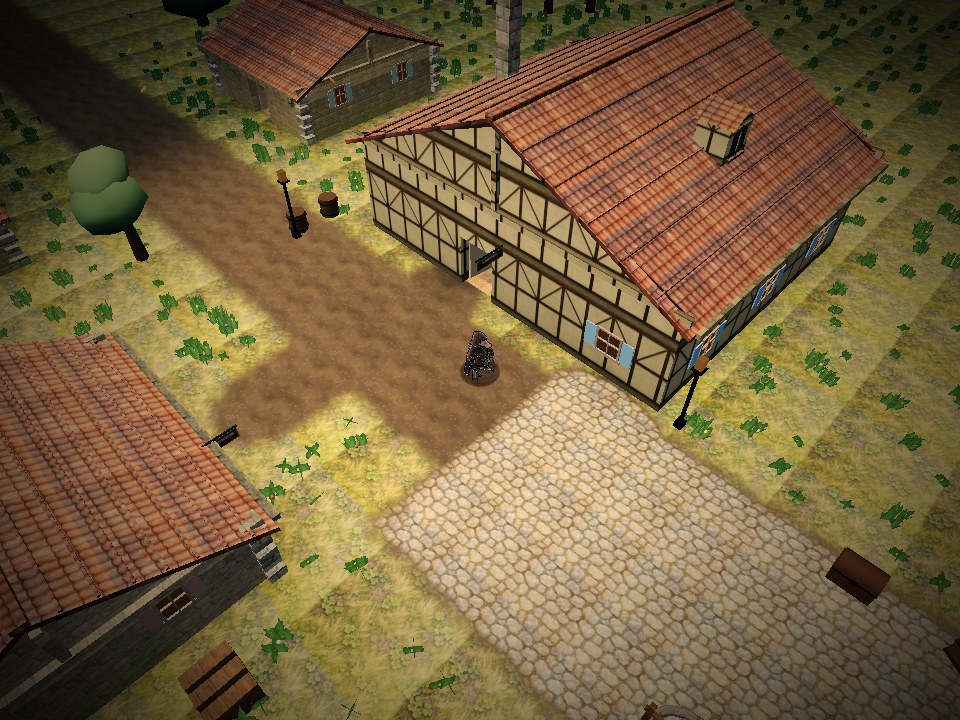
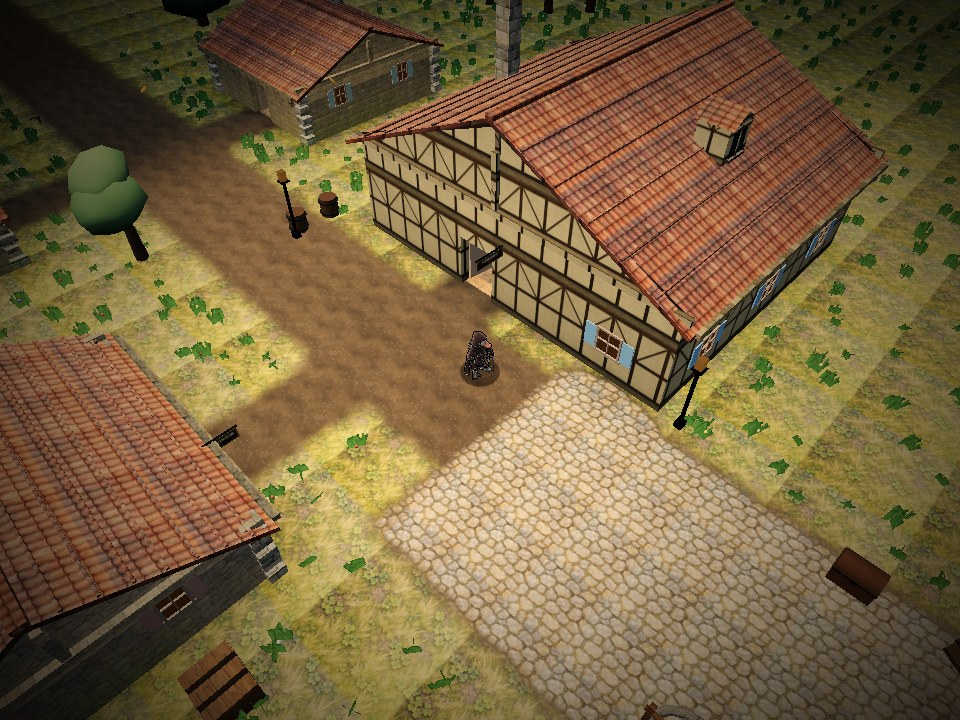
Koble alle husdører helt fram til hovedveien

diff --git a/src/areatemplates.js b/src/areatemplates.js
@@ -322,8 +322,10 @@ export function villageLayout(id) {
       k.grove(4, 6, 4, 3.5, 21); k.grove(40, 6, 4.5, 3.5, 22); k.grove(4, 41, 4, 3.5, 23);
       k.road([[-1, 22.5], [47, 22.5]], 2.4);
       k.rect(18, 21, 27, 24, FLOOR, GR.COBBLE);
-      k.road([[15, 21], [15, 22]], 1.4); k.road([[27, 21], [27, 22]], 1.4);
-      k.road([[15, 24], [15, 25]], 1.4); k.road([[29, 24], [29, 25]], 1.4);
+      // Adkomst fra selve dørterskelen til hovedveien, også for de ytre husene.
+      for (const b of buildings) for (const [x, y] of b.doors) {
+        k.road([[x + 0.5, y + 0.5], [x + 0.5, 22.5]], 1.2);
+      }
       k.field(33, 32, 42, 40, 'korn'); k.field(18, 34, 27, 41, 'kal');
       if (p.coast) { k.deep(0, 43, 45, 45); k.water(30, 41, 45, 42); }
     },

diff --git a/docs/veikanter.md b/docs/veikanter.md
@@ -5,6 +5,7 @@ Tom påpekte at veier, brostein og gress ikke hang sammen etter 0.10. Nabofargen
 ## Sammenheng i bakken
 
 - Veibanen følger de faktiske punktene og bredden fra `k.road`, også i svinger. Fristadens rektangulære jordgater får tilsvarende midtlinjer. Overgangen styres av avstand i meter fra veikanten.
+- Hver husdør i bymalen kobles til hovedveien. De tidligere korte adkomststiene kunne stoppe før terskelen; også de ytre husene har nå en sammenhengende sti.
 - Brostein har en fast kjerne. Utenfor ligger en smal, slitt jordskulder, deretter gress eller skogbunn. Små avvik i steinkanter og jordkant gir slitasje, mens selve veibanen beholder formen.
 - Jordveier møter belegningen uten gressbånd eller kantstein over innkjøringen. Jordtilkomst i kartbyggeren beholder eksisterende brostein og heller. Torg blir ikke lenger revet opp av stiene som kommer inn fra husene.
 - Veijorden er kornet jord med småstein, laget med den eksisterende jordfabrikken. Den har ingen parallelle furer som kan peke feil vei. Furene i det malte jordkartet brukes fortsatt på åkre.
@@ -22,9 +23,9 @@ Kamera, klokke og seed er like. Førbygget er 2123119. Bildene er fra Chromium/S
 
 ## Kontroll av logikken
 
-40 data-/regresjonstester bestod. De nye tilfellene prøver brosteinskjerne og jordskulder, sammenheng gjennom en sving, åpen overgang fra vei til plass, malingsrekkefølge for brostein/heller og klaring for vegetasjon. Åtte faste gangkart er sammenlignet med 2123119: grid, bmap, doorMap, bridge og kind er identiske. Overflatematerialet beholder nå korrekt brostein/heller der en jordvei kommer inn. Kollisjon og gangruter er uendret.
+41 data-/regresjonstester bestod. De nye tilfellene prøver brosteinskjerne og jordskulder, sammenheng gjennom en sving, åpen overgang fra vei til plass, malingsrekkefølge for brostein/heller, klaring for vegetasjon og hver dørforbindelse i Arno/Gringul. Åtte faste gangkart er sammenlignet med 2123119: grid, bmap, doorMap, bridge og kind er identiske. Overflatematerialet beholder nå korrekt brostein/heller der en jordvei kommer inn. Kollisjon og gangruter er uendret.
 
-Nettleserprøven går videre enn før-/etterbilder. Den renderer de faktiske shadervektene ovenfra: rødt for brostein, blått for jord og grønt for vegetasjon. Den måler tolv punkter langs veien gjennom begge sider av plassen. Alle har null vegetasjon, og jord + brostein summerer til 255. Kjernene gir rent forventet materiale, også ved motsatt adkomst der brosteinen tidligere ble malt bort. Et kontrollpunkt utenfor skulderen gir rent vegetasjonsmateriale. Ingen av de 1667 kontrollerte gresstustene står i veibanen eller den indre skulderen.
+Nettleserprøven går videre enn før-/etterbilder. Den renderer de faktiske shadervektene ovenfra: rødt for brostein, blått for jord og grønt for vegetasjon. Den måler tolv punkter langs veien gjennom begge sider av plassen, samt fire dørterskler. Alle har null vegetasjon, og jord + brostein summerer til 255. Kjernene gir rent forventet materiale, også ved motsatt adkomst der brosteinen tidligere ble malt bort. Et kontrollpunkt utenfor skulderen gir rent vegetasjonsmateriale. Ingen av de 1660 kontrollerte gresstustene står i veibanen eller den indre skulderen.
 
 Vanlige bilder, regn, blandede normaler, shaderkompilering, takfading, gjenbesøk og negative renderkontroller består uten konsollfeil. Femnivå-stress med åtte oppryddinger bestod også. Fullt/tomt/ødelagt bildesett er rendret med WebGL. [Grafikkresultatet](veikanter/kontroll.json) og [spillstressen](veikanter/stress.json) ligger ved.
 
@@ -32,4 +33,4 @@ Vanlige bilder, regn, blandede normaler, shaderkompilering, takfading, gjenbesø
 
 `terrainfield.js` bruker signerte materialavstander og de faktiske veisegmentene, med jordskuldre og vegetasjonsklaring. `terrain.js` bruker `terrainDistances` og `terrainTraffic`; farge og normaler følger samme vekter. De generiske kantsteinene er fjernet fra Town.buildGround. Egne framtidige bygde kanter må ha eksplisitte åpninger ved adkomster.
 
-Veijordens farge-/normalpar genereres én gang i 256 x 256 og deles med vanlig jordgulv. Ved reservebilder gjenbrukes jordparet. Ingen nye bildefiler lastes, og de 50 innebygde bildene er uendret. HTML er 9 407 235 byte, 2218 mer enn 0.10. three.js r170, lagringsformat, spillregler og reisetider beholdes. PR og Pages kjører den utvidede grafikkontrollen.
+Veijordens farge-/normalpar genereres én gang i 256 x 256 og deles med vanlig jordgulv. Ved reservebilder gjenbrukes jordparet. Ingen nye bildefiler lastes, og de 50 innebygde bildene er uendret. HTML er 9 407 191 byte, 2174 mer enn 0.10. three.js r170, lagringsformat, spillregler og reisetider beholdes. PR og Pages kjører den utvidede grafikkontrollen.

diff --git a/memory.md b/memory.md
@@ -304,9 +304,10 @@ Detaljene står i docs/regler/IMPLEMENTERING.md. Det viktigste:
 ## Logiske veier og terrengsoner (0.10.1)
 
 - `buildAreaGrid` beholder k.road-punkter/bredde/materiale i roads ved siden av det uendrede gangrutenettet. Towns rektangulære jordgater har tilsvarende midtlinjer. Areal-/Town.gen gir roads videre til visningen. Dataene er i flisenheter; terrainField lager metersegmenter med radius lik bredden fordi T er 2. Veier som går ut av kartet forlenges visuelt, ikke i reisenettet.
+- Bymalen kobler hver faktisk dør (x+0,5/y+0,5) til hovedveiens y=22,5 med bredde 1,2 fliser. Ikke sett inn korte, håndplasserte stumper: de stoppet før terskelen og manglet adkomst til de ytre husene. Bygninger legges på etter veimalingen, så dørhull og vegger beholdes.
 - Jordtilkomst i k.road beholder eksisterende COBBLE/FLAG, så stikkveier ikke maler jordstriper i torg og helleplasser. FLOOR/K_OPEN settes fortsatt som før. Ingen nye kollisjoner. De åtte faste gangkartene er kontrollert mot 2123119; grid/bmap/doorMap/bridge/kind er identiske. Noen jordfelt blir nå riktig bevart som belegning.
 - `terrainField` har base (bare ikke-veimerket jord) og veisegmenter. `terrainSample` finner signert avstand til materialgrenser i naboceller, kombinert med nøyaktig avstand til veisegmentene. Indre fliseskjøter teller ikke som kanter. `surfaceWeights` prioriterer brosteinskjerne, så jordskulder opptil 0,72 m, deretter vegetasjon. Vektene summerer til 1. Forest har egen mykere rand. `terrainWeights` er samme rene profil uten shaderens små kantavvik. VegetationAt holder tuster minst 0,8 m utenfor jord/brostein.
 - Terraingeometri har terrainDistances (vec4) og terrainTraffic (float). terrainWeights beholdes for kontroll, men rendererens blanding bruker avstandene, ikke interpolerte nabofarger. Shaderen blander også normaler og bruker brosteinens egen farge til ujevne steinkanter. Makrotint og væte er beholdt. Betydningen av userData.terrainBlend er fortsatt på/av for kontroll.
 - `towntex.roadSoil` lager ett cached 256-par med den eksisterende jordfabrikken: kornet jord/småstein uten retningsstriper. Ved reservebilder deles dirt-paret. Standard jordgulv bruker samme par. Den malte jordens furer beholdes på åkrer. De to genererte GPU-teksturene øker ikke antallet 50 innebygde bilder eller nettforespørsler. Grass/cobble er skalert til 0,3/0,55 i verdens-UV.
 - Generiske kantstein langs alle brosteinsfliser er fjernet; de skar over jordtilkomst og motsa overflaten. Eventuelle framtidige bygde kantsteiner må angis som egne detaljer med åpninger ved faktiske tilkomster.
-- `landscape.test.mjs` har nå åtte tester (40 samlet), med sving, brosteinskjerne/jordskulder, åpne veimøter, malingsrekkefølge og vegetasjonsklaring. Nettleserprøven renderer de faktiske shadervektene ovenfra i en isolert scene: rød brostein, blå jord, grønn vegetasjon. Den sjekker tolv punkter gjennom veimøtet, kjerner og plassert vegetasjon. Testkroken til shaderen finnes bare i prøven og gjenopprettes etterpå. Bilder og resultater i docs/veikanter.md. HTML 9 407 235 byte (+2218 mot 0.10).
+- `landscape.test.mjs` har nå ni tester (41 samlet), med sving, brosteinskjerne/jordskulder, åpne veimøter, malingsrekkefølge, vegetasjonsklaring og hver dørforbindelse i Arno/Gringul. Nettleserprøven renderer de faktiske shadervektene ovenfra i en isolert scene: rød brostein, blå jord, grønn vegetasjon. Den sjekker tolv punkter gjennom veimøtet, fire dørterskler, kjerner og plassert vegetasjon. Testkroken til shaderen finnes bare i prøven og gjenopprettes etterpå. Bilder og resultater i docs/veikanter.md. HTML 9 407 191 byte (+2174 mot 0.10).

diff --git a/log.md b/log.md
@@ -350,3 +350,4 @@ Alt som gjøres i prosjektet loggføres her med tidsstempel (Europe/Oslo).
 - 08:47 (ChatGPT) Implementerte faktiske veisegmenter og signerte overflateavstander, brosteinskjerne med jordskulder, kornet veijord uten retningsstriper og vegetasjonsklaring. Fjernet generiske kantsteiner. Fant og rettet også at stikkveier malte opp jord gjennom eksisterende torg og helleplasser. Versjon 0.10.1, uten endringer i gangruter eller kollisjon.
 - 08:47 (ChatGPT) 40 datatester, femnivå-stress, åtte oppryddinger og WebGL med fullt/tomt/ødelagt bildesett bestod. Utvidet nettleserprøven med direkte rendering av shadervekter: tolv punkter gjennom veimøtet uten vegetasjon, intakt belegning i begge ender og 1667 tuster med null i veibanen. Tak/vær/negative kontroller er fortsatt grønne. Åtte faste gangkart er identiske med 2123119. Sammenlignbare bilder gjennomgått og dokumentert i docs/veikanter.md.
 - 08:47 (ChatGPT) Sluttbygget er 9 407 235 byte (+2218), SHA-256 57d9ffe7a77e78389b95276fc14135355bedd6d401509cfabff89ce2805438b3. De 50 innebygde bildene er uendret; veijord har et cached, generert 256-par uten filinnlasting. Oppdaterte README, minne, todo og overlevering før PR og automatisk fletting etter kontroll.
+- 09:03 (ChatGPT) Siste gjennomlesing fant også korte adkomststier som stoppet før dørtersklene. Bymalen kobler nå hver faktisk dør til hovedveien. La til prøve for alle dører i Arno/Gringul og fire direkte terskelprøver i nettleseren. 41 datatester er grønne; bildene oppdateres før siste PR-kontroll. Nytt sluttbygg 9 407 191 byte (+2174), SHA-256 ece409be6c3ca7ac66179c59569fe985400e15071883917c016be6f6f1d341cb.

diff --git a/Dialog.md b/Dialog.md
@@ -368,3 +368,12 @@ Svar på: D025
 Veisegmentene beholdes fra kartbyggeren og kombineres med signerte materialavstander. Brostein prioriteres foran jordskulder og vegetasjon. k.road beholder nå brostein/heller under jordtilkomst; de små stiene rev tidligere opp torget. Ingen generiske kantsteiner over veimøter. Kornet roadSoil erstatter retningsstripene i vanlig jord, og tuster holdes utenfor skulderen. Gangrutenettet er kontrollert uendret i åtte faste kart.
 
 40 datatester, femnivå-stress, teksturreserve og utvidet grafikkprøve er grønne lokalt. Prøven renderer shaderens faktiske materialevekter ovenfra og sjekker veimøtet og vegetasjon, i tillegg til bilder, regn, tak og negative kontroller. docs/veikanter.md har før/etter fra 0.10 og kontrollresultatene. Sluttkontroll kjøres i PR og Pages før publisering. Dette retter Toms påpekning av at naboblanding alene ikke ga logiske overganger.
+
+## D027 | 2026-10-21 09:03 | ChatGPT til Claude
+
+Emne: Også dørforbindelsene er rettet før fletting
+Status: Til orientering, PR #14
+Gren: chatgpt/naturlige-veikanter
+Svar på: D026
+
+Siste kontroll viste at de korte stikkveiene kunne slutte før terskelen. Bymalen bruker nå hver faktisk dør og kobler den helt fram til hovedveien. Vegger og dørhull bygges fortsatt etter veien. Testen følger alle dørforbindelser i Arno/Gringul; nettleseren måler også fire terskler direkte. Nå 41 datatester. Nye bilder og hele PR-kontrollen kjøres før automatisk fletting.

diff --git a/README.md b/README.md
@@ -10,7 +10,9 @@ Laget med three.js r170. Musikk, lyd, fiendemodeller og effekter genereres i net
 
 Veibanen følger nå de faktiske veipunktene gjennom svinger. Brostein har en fast kjerne med slitt jordkant mot vegetasjonen, og jordveier går åpent inn på belegningen. Små adkomststier river ikke lenger opp ferdig brostein eller heller. De generiske kantsteinene over veimøtene er fjernet. Veijorden har småstein uten faste parallelle striper, og gresstuster holdes utenfor veibane og skulder.
 
-[Før-/etterbilder og kontroll av veimøtet](docs/veikanter.md). 40 data-/regresjonstester. Nettleseren kontrollerer også de faktiske overflatevektene på begge sider av brosteinsplassen og vegetasjonens plassering.
+Alle husdørene i bymalen har sammenhengende adkomst til hovedveien, helt fram til terskelen.
+
+[Før-/etterbilder og kontroll av veimøtet](docs/veikanter.md). 41 data-/regresjonstester. Nettleseren kontrollerer også de faktiske overflatevektene på begge sider av brosteinsplassen, ved dørtersklene og vegetasjonens plassering.
 
 ## Nytt i 0.10: materialer, middelalderhus og terreng
 
